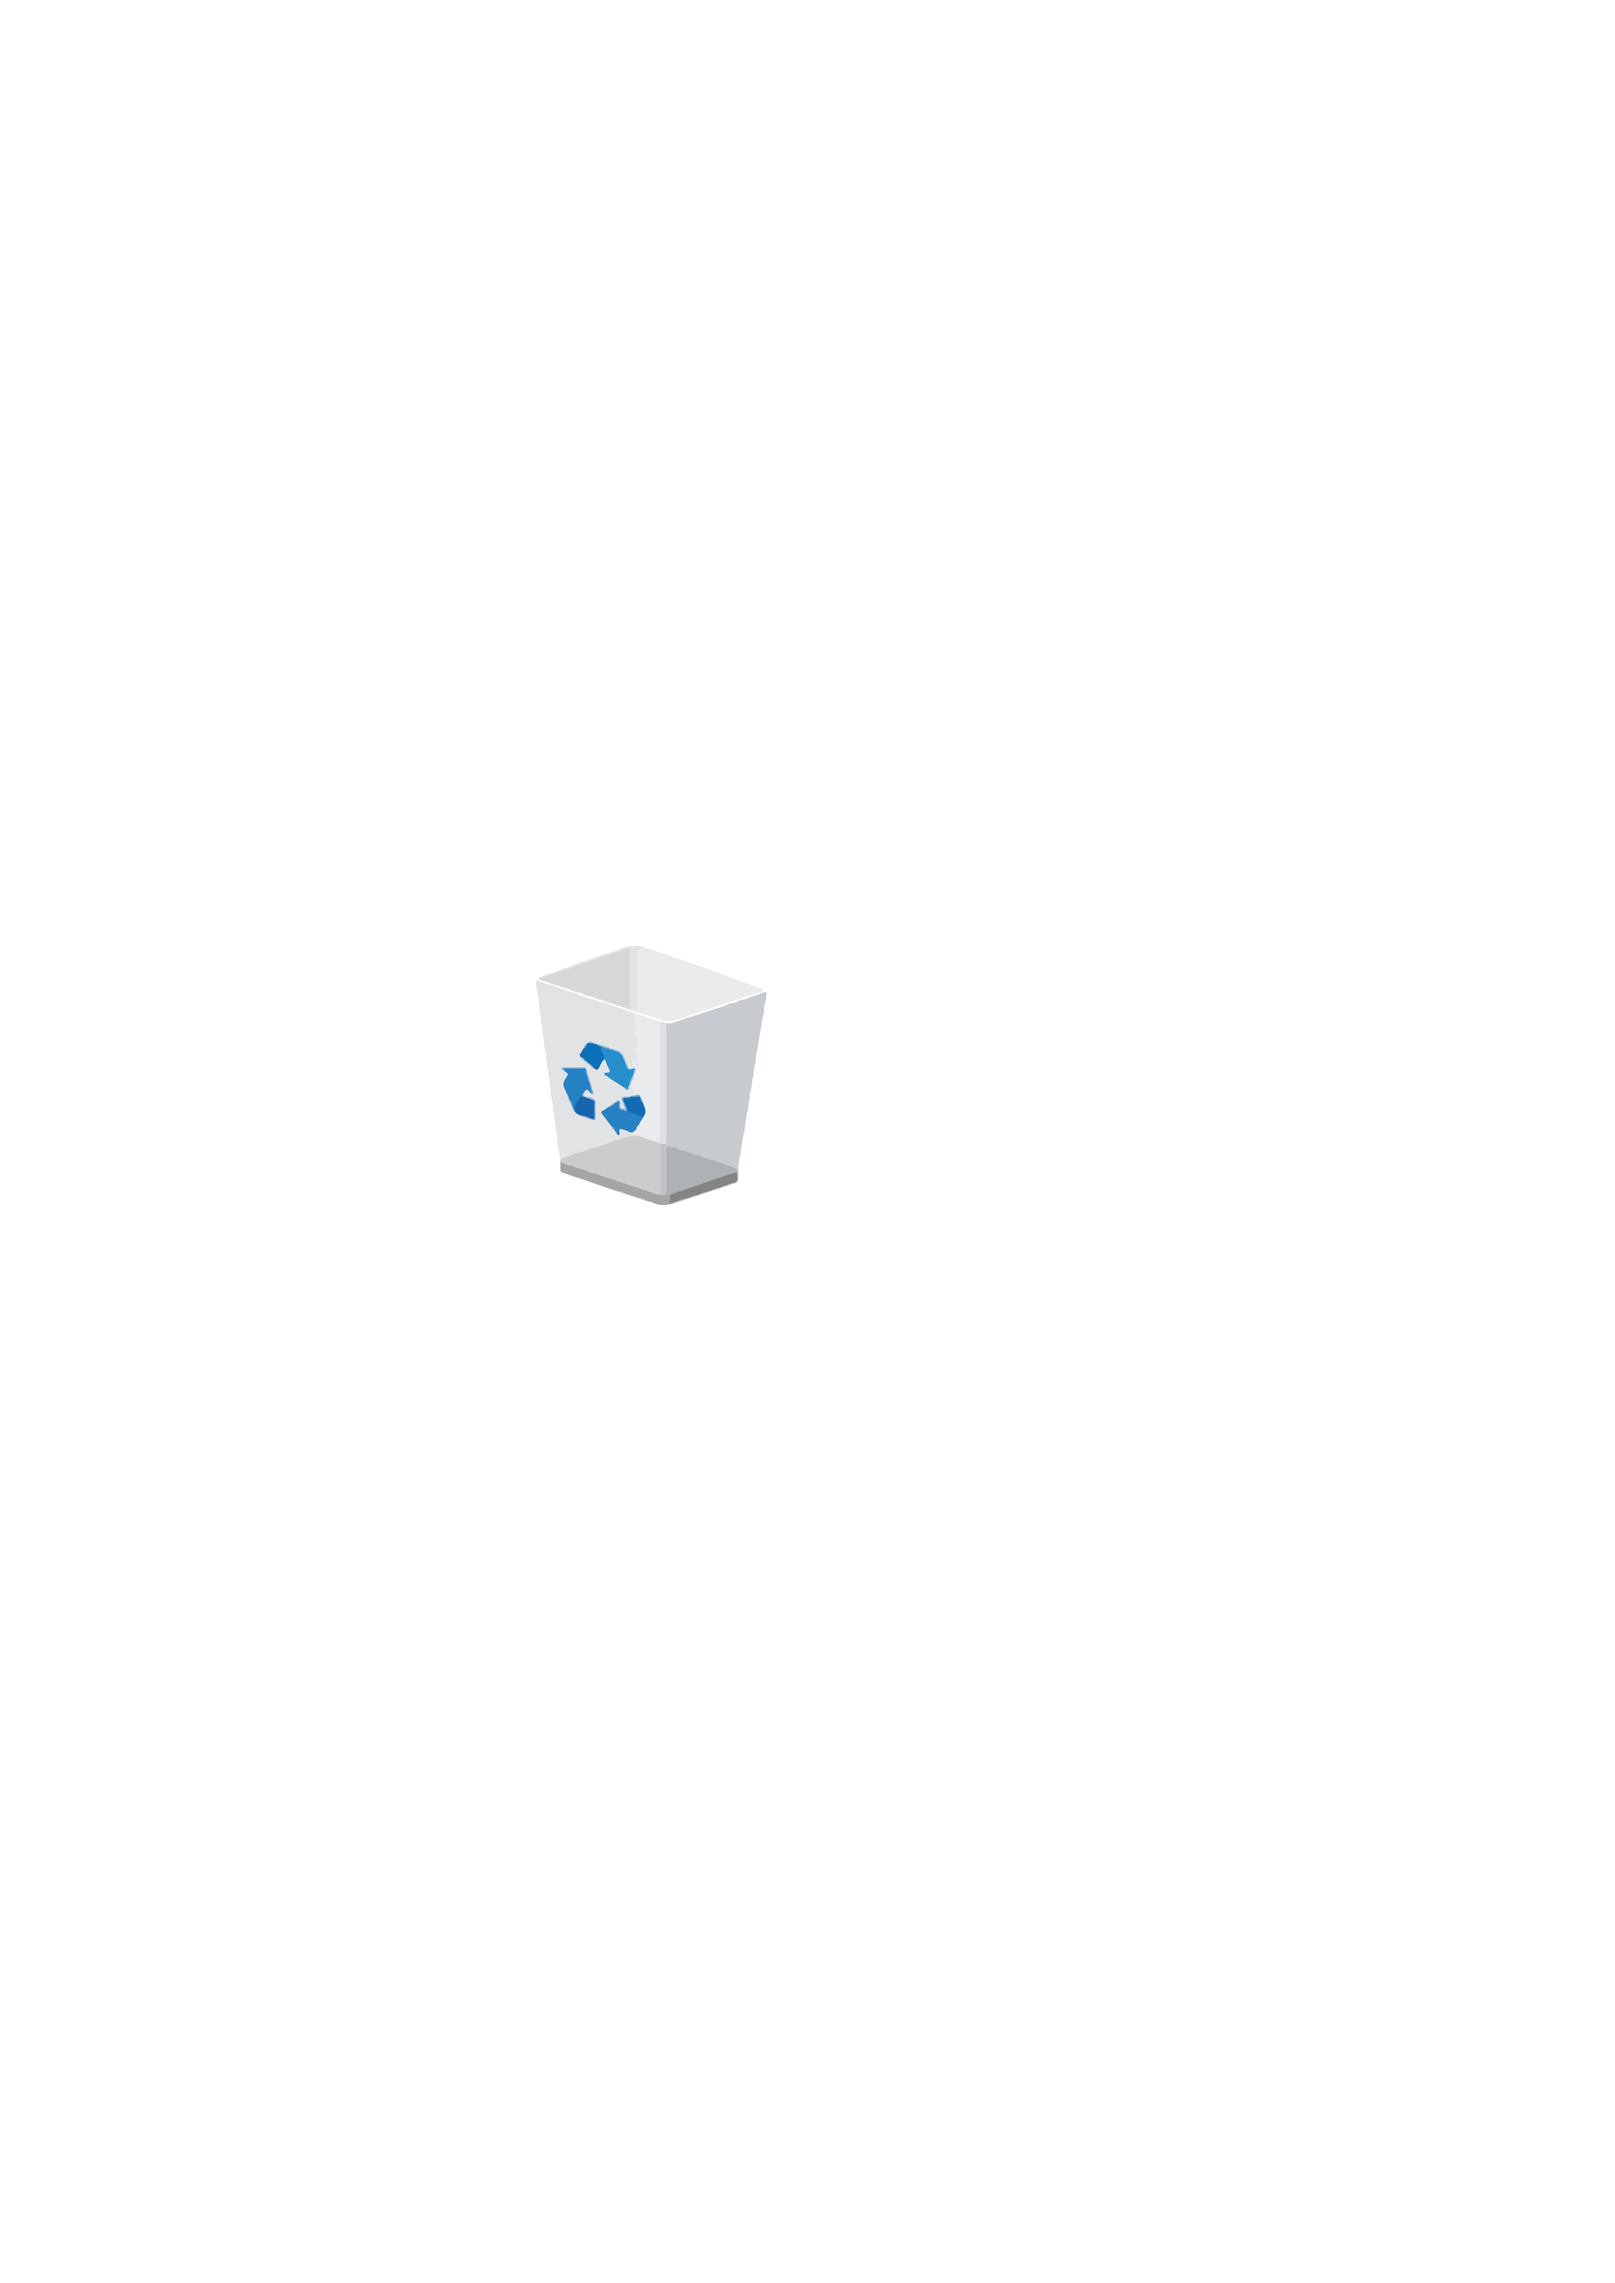
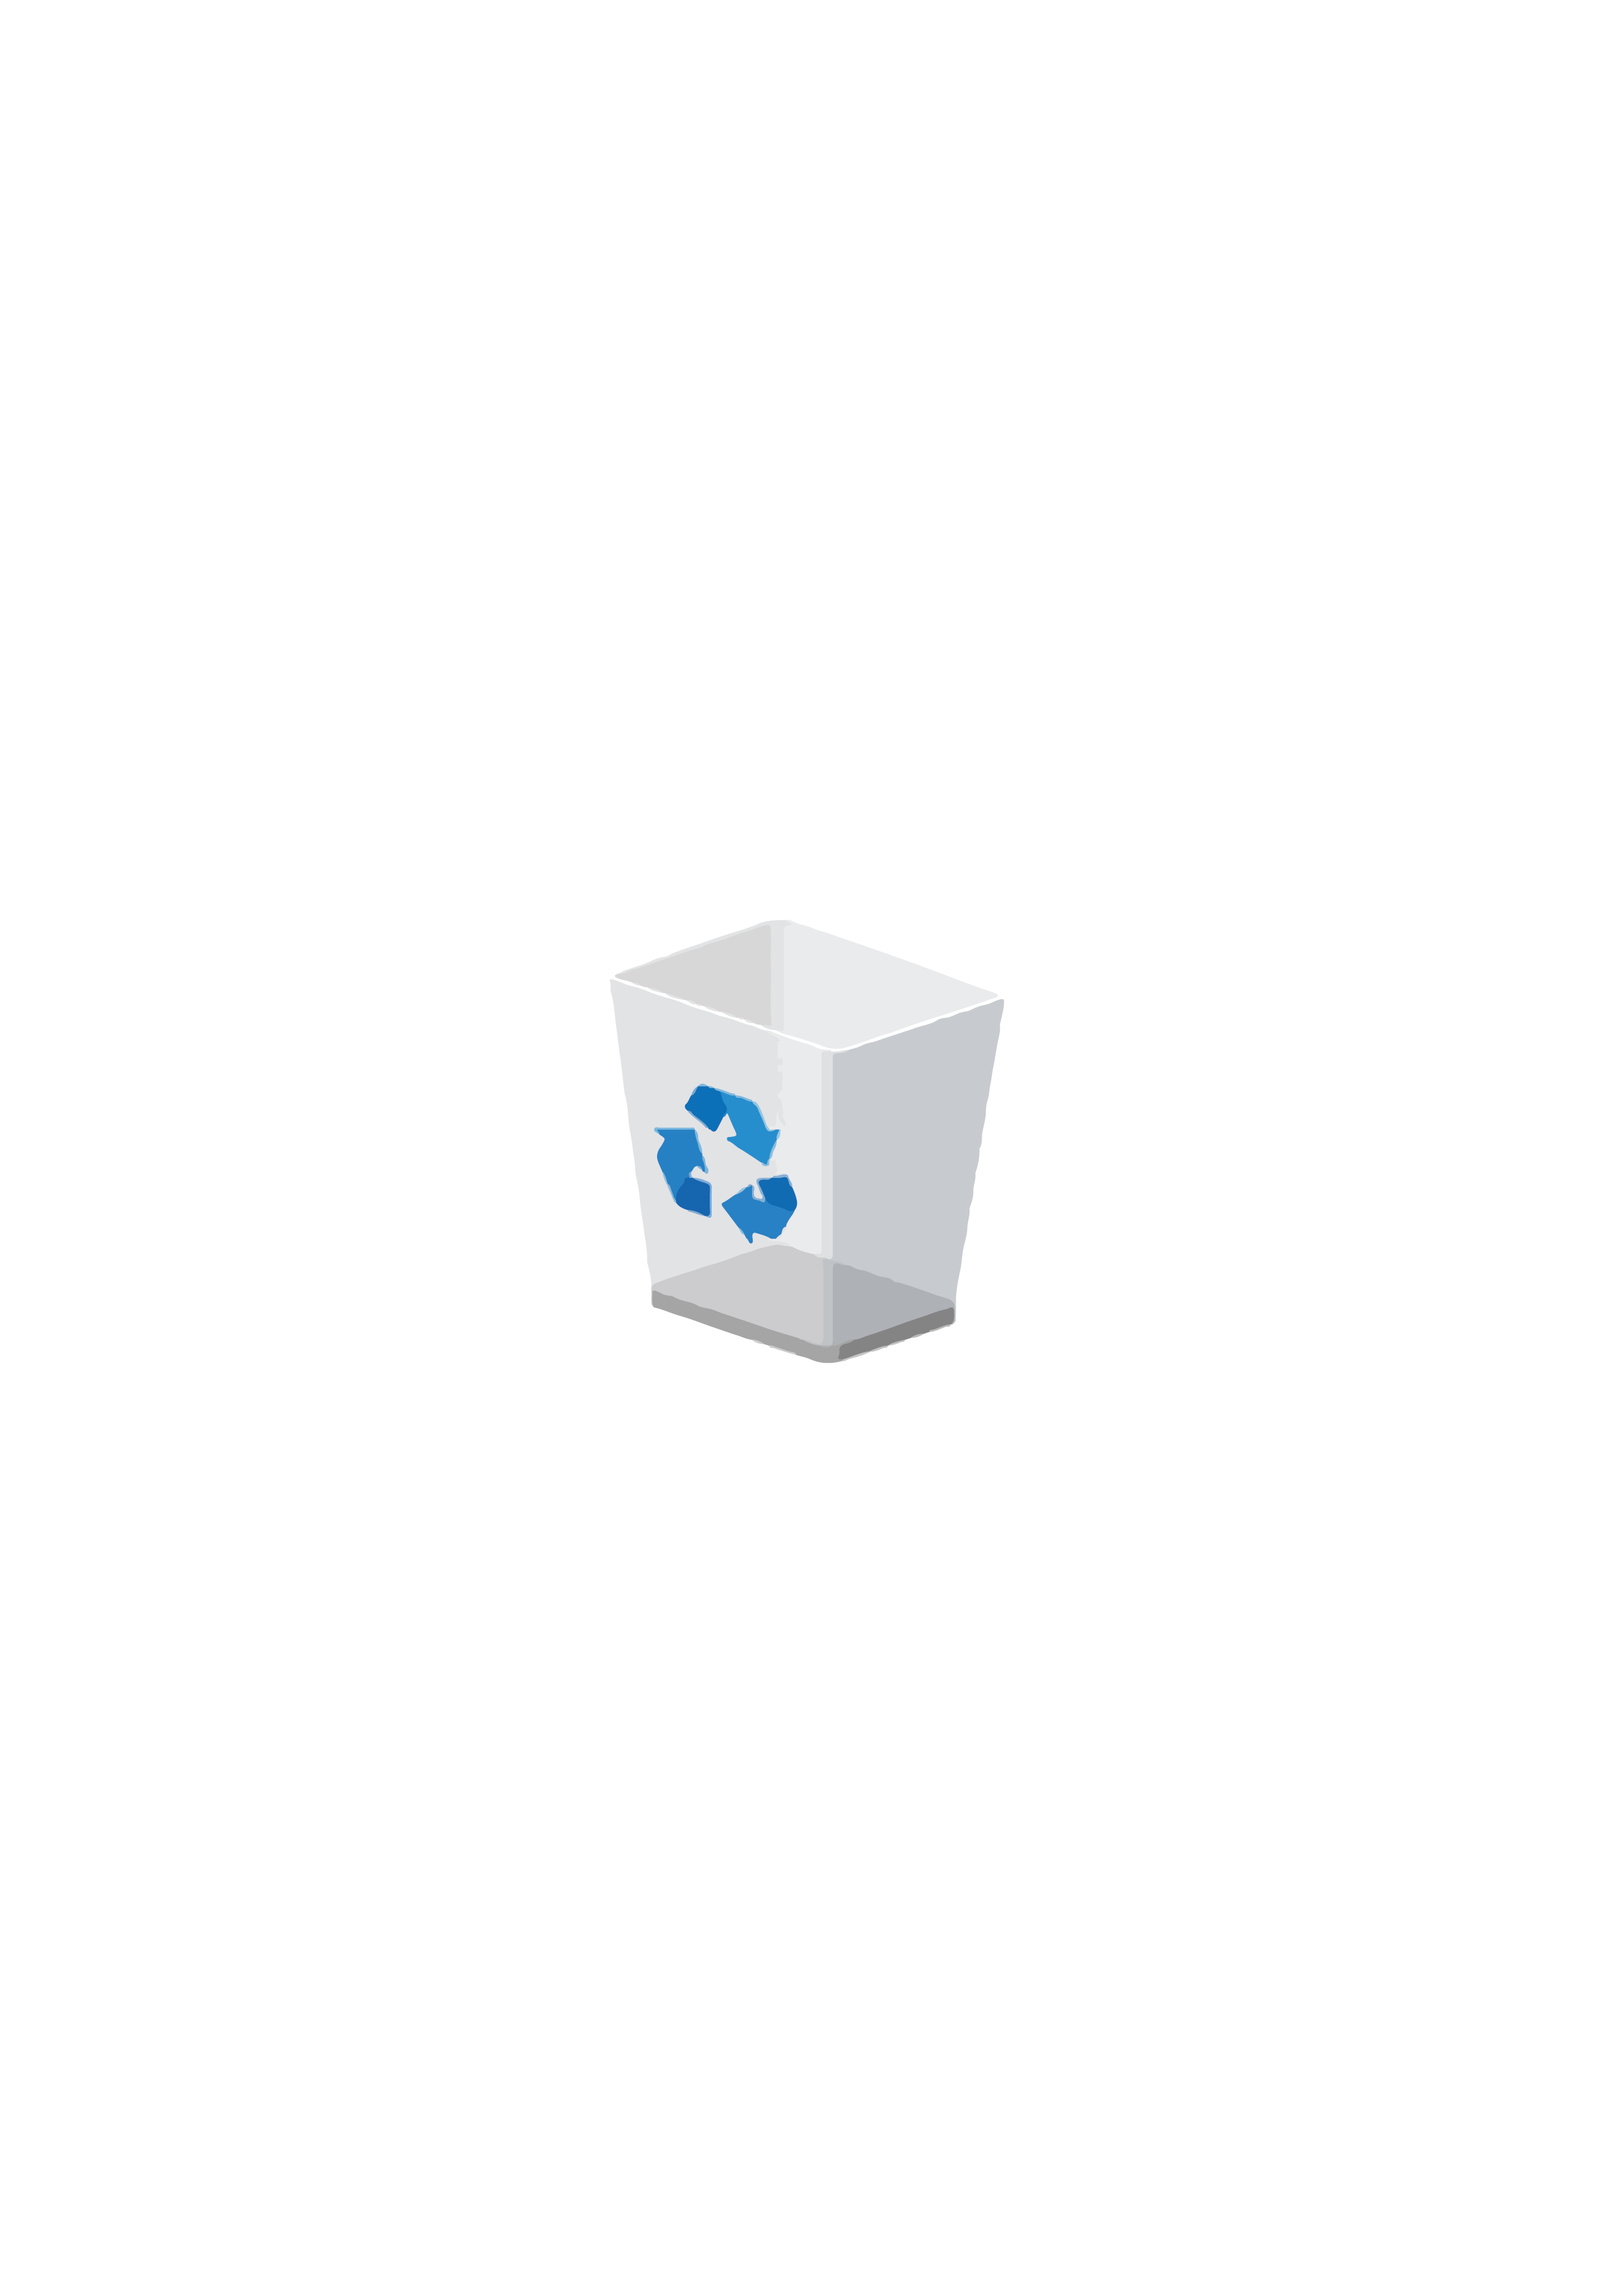
Update frontend
Se modifico el componente utilidades

Changed region(s): [[0.3104, 0.4039, 0.6207, 0.6214]]

diff --git a/frontend/src/app/components/utilidades/utilidades.component.html b/frontend/src/app/components/utilidades/utilidades.component.html
@@ -1,60 +1,51 @@
 <div class="container img border ">
 
-  <div class ="row"> <button class =" flecha"type="button" href="/home">
-
-    Flecha de regreso a home</button> </div>
 
 
-
-<div class ="row">
-
-  <div class="col-6">
-
-      <br><br>
-      <br><br>
-      <br><br><br>
-      <br>
-      <button class =" container papelera border"type="button">
-        <img src="../../../assets/images/papelera.png" height ="80" width="100" /></button>
-
-    <div class="col-sm-6"></div>
-
-  </div>
-
-    <div class="col-sm-6">
-
-        <br><br>
-        <br><br>
-        <br><br><br><br>
-
-        <button class ="container antivirus border"type="button ">
-          <img src="../../../assets/images/seguridad.png" height ="80" width="100" /></button>
-
-      <div class="col-sm-6"></div>
+ <div class="container">
+ <div class=" row align-items-start">
+   <div class="col-4 align-self-end"> </div>
+   <div class="col-4 align-self-end"><br><br><br><br><button class =" container botones border">
+    <input type="image"src="../../../assets/images/flecha.png" height ="30" width="50 "href="/home" /></button></div>
+   <div class="col-4 align-self-end"></div>
+ </div>
 
 
-    </div>
+    <div class="offset-3  row align-items-center">
 
-<div class="row">
-  <div class="col-sm-6">
+      <div class="col-4 align-self-end">
 
-<br><br>
-      <button class =" container w-update border"type="button">
-        <img src="../../../assets/images/Wupdate.png" height ="80" width="100" /></button>
+        <button class =" container botones border">
+           <input type="image"src="../../../assets/images/papelera.png" height ="230" width="200" /></button>
+
+      </div>
+      <div class="offset-1 col-4 align-self-end">
+        <br><<br><br><br><button class =" container botones border">
+        <input type="image"src="../../../assets/images/seguridad.png" height ="230" width="200" /></button></div>
+      <div class="col-4"></div>
+
+
+</div>
+<div class="offset-3  row align-items-end">
+
+  <div class="col-4">
+
+    <button class =" container botones border">
+       <input type="image"src="../../../assets/images/Wupdate.png" height ="230" width="200" /></button>
 
   </div>
-
-    <div class="col-sm-6">
-
-        <br><br>
-
-        <button class =" container apagado border"type="button">
-           <img src="../../../assets/images/apagado.png" height ="80" width="100" /></button>
-
-    </div>
+  <div class="offset-1 col-4 ">
+    <button class =" container botones border">
+    <input type="image"src="../../../assets/images/apagado.png "height ="230" width="200" /></button></div>
+  <div class="col-4"></div>
 
 </div>
 
-</div>
+
+
+
+
+
+
 
 

diff --git a/frontend/src/app/components/utilidades/utilidades.component.scss b/frontend/src/app/components/utilidades/utilidades.component.scss
@@ -2,29 +2,28 @@
   background-image: url(../../../assets/images/utilidades.png);
   background-repeat: no-repeat;
   background-size: cover;
-  height: 600px;
-  width: 600px;
+  height: 800px;
+  width: 800px;
   background-attachment: absolute;
   background-position: center center;
-  justify-content: center;
+  display: flex;
+
 
 }
-.papelera {
+
+  .abs-center {
+
+    align-items: center center;
+    justify-content: center center;
+
+  }
+
+
+.botones {
   background-color: transparent;
   border-color: transparent;
 
-float: right;
+
 
 }
-.w-update {
-  background-color: transparent;
-  border-color: transparent;
-}
-.apagado {
-  background-color: transparent;
-  border-color: transparent;
-}
-.antivirus {
-  background-color: transparent;
-  border-color: transparent;
-}
+

diff --git a/frontend/src/app/components/home/home.component.scss b/frontend/src/app/components/home/home.component.scss
@@ -2,8 +2,8 @@
   background-image: url(../../../assets/images/home.png);
   background-repeat: no-repeat;
   background-size:cover;
-  height: 600px;
-  width: 600px;
+  height: 800px;
+  width: 800px;
   background-attachment: absolute;
   background-position: center center;
 

diff --git a/frontend/src/app/components/utilidades/utilidades.component.ts b/frontend/src/app/components/utilidades/utilidades.component.ts
@@ -1,7 +1,7 @@
 import { Component, OnInit } from '@angular/core';
 
 @Component({
-  selector: 'app-utilidades',
+  selector: 'utilidades',
   templateUrl: './utilidades.component.html',
   styleUrls: ['./utilidades.component.scss']
 })
